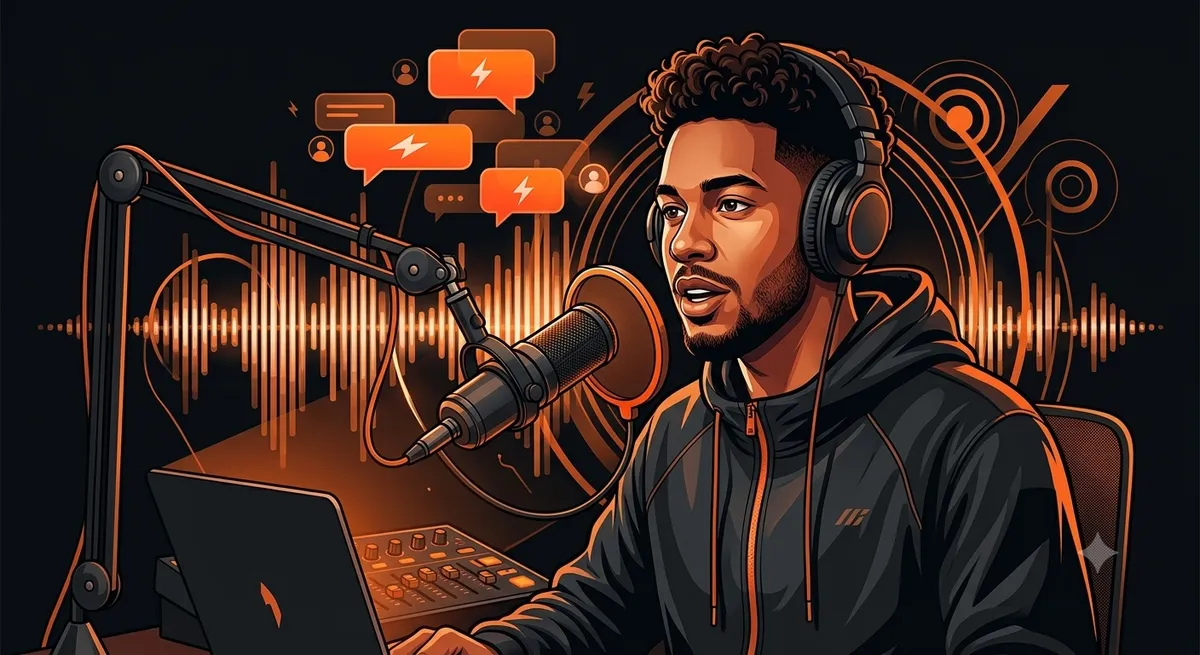
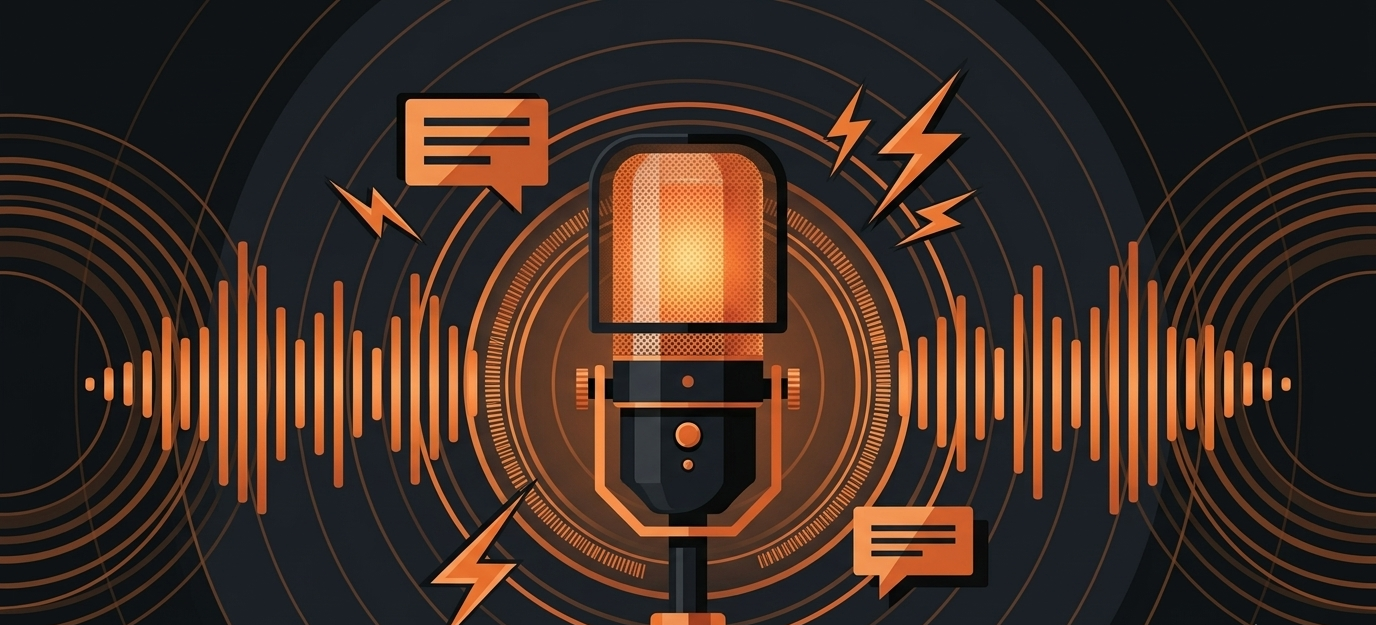
Update post: c:\Users\Nahom\Desktop\firstblog

diff --git a/src/content/blog/2026-08-05-why-instant-response-is-the-new-standard-in-online-sales.md b/src/content/blog/2026-08-05-why-instant-response-is-the-new-standard-in-online-sales.md
@@ -1,18 +1,19 @@
 ---
-title: "Why Instant Response Is Becoming the New Standard in Online Sales"
+title: Why Instant Response Is Becoming the New Standard in Online Sales
 slug: why-instant-response-is-the-new-standard-in-online-sales
-description: "Why fast response times now decide who wins the sale online, and how solo entrepreneurs and small teams can keep up without burning out."
+description: Why fast response times now decide who wins the sale online, and how solo entrepreneurs and small teams can keep up without burning out.
 pubDate: 2026-08-05
 author: Jean Paul Michel
 tags:
-  - Online Business
-  - Digital Products
-  - Sales Funnels
-  - Entrepreneurship
+    - Online Business
+    - Digital Products
+    - Sales Funnels
+    - Entrepreneurship
 draft: false
 coverImage:
   src: ./why-instant-response-is-the-new-standard-in-online-sales-compressed.webp
   alt: "Why Instant Response Is Becoming the New Standard in Online Sales"
+    
 ---
 
 A few years ago, a same-day reply to a customer question felt fast. Today, if a buyer doesn't hear back within minutes, they've often already moved on to a competitor's tab. Speed isn't a nice-to-have anymore in online sales — it's the baseline people expect, and it's quietly reshaping how small businesses and solo creators need to operate.
